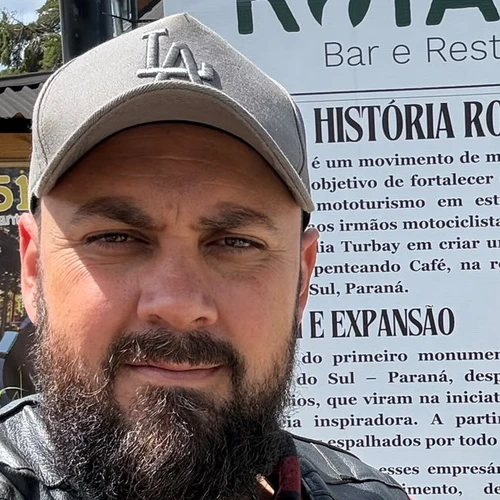
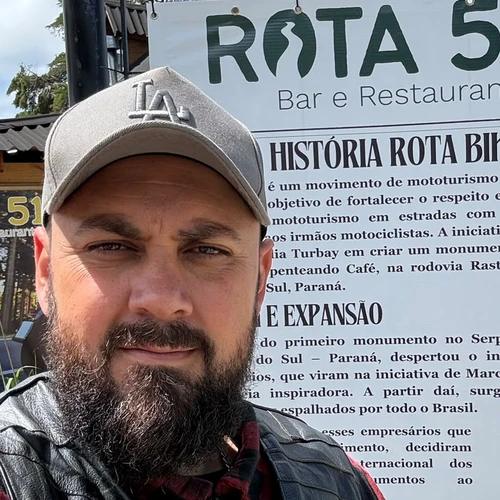
Ajustar enquadramento da foto do Luizão e converter foto do Ottoni para webp
Zoom da foto do Luizão estava fechado demais no rosto; recorte
ajustado para um meio-termo, mostrando ombros/contexto.
Foto do Ottoni convertida de PNG para webp, mesmo padrão das demais.

diff --git a/src/data/ranchos.js b/src/data/ranchos.js
@@ -138,7 +138,7 @@ const ranchos = [
       tel: "+5524998359993",
       label: "(24) 99835-9993",
       name: "Rep. - Ottoni",
-      photo: "/images/ottoni.png",
+      photo: "/images/ottoni.webp",
     },
   },
   {
